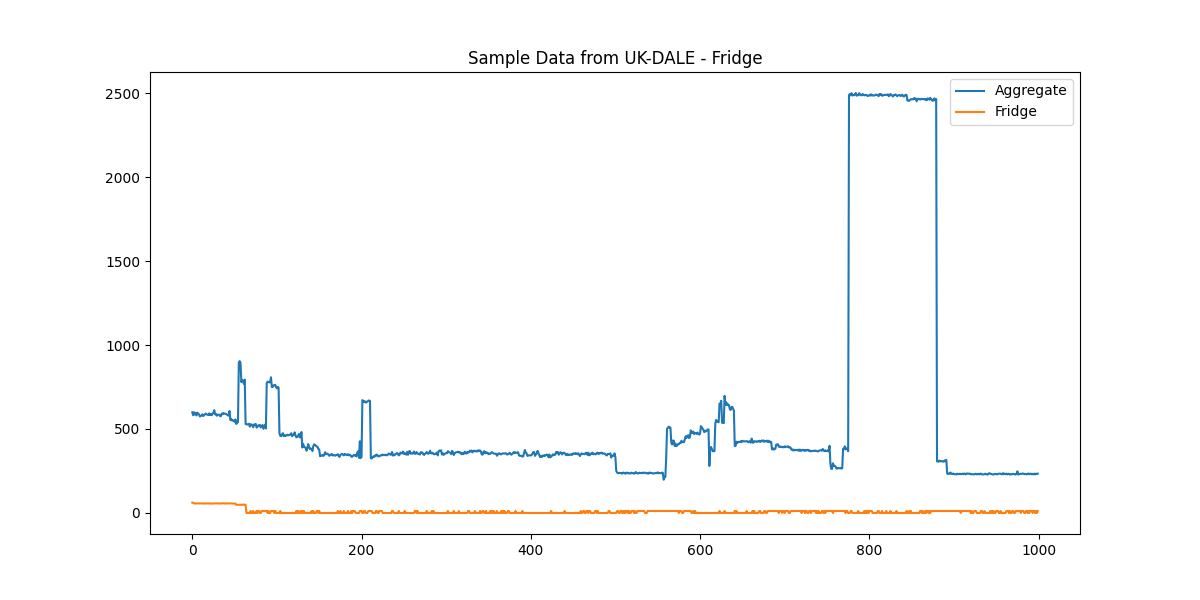
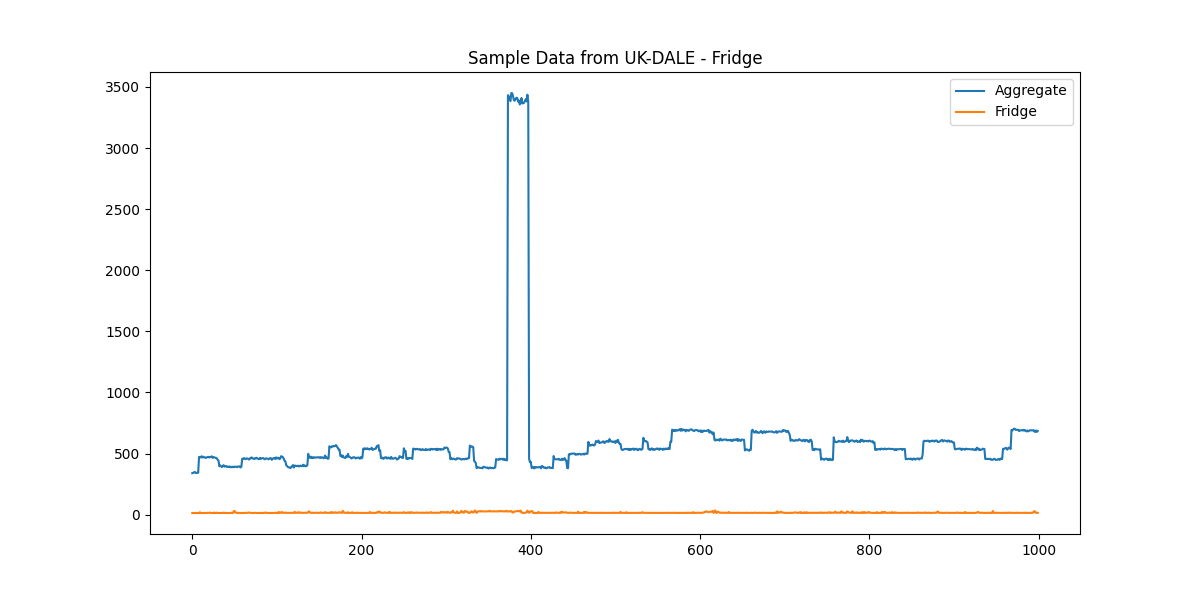
Update train_lstm.py default house and generated sample plot

diff --git a/Source Code/train_lstm.py b/Source Code/train_lstm.py
@@ -322,5 +322,5 @@ def train_lstm_all_appliances(house_number=1, window_size=100, save_dir='models/
     return results, base_save_dir
 
 if __name__ == "__main__":
-    # Train LSTM models on all appliances in house 1
-    results, save_dir = train_lstm_all_appliances(house_number=1)
+    # Train LSTM models on all appliances in house 2 (change house_number for different houses)
+    results, save_dir = train_lstm_all_appliances(house_number=2)
